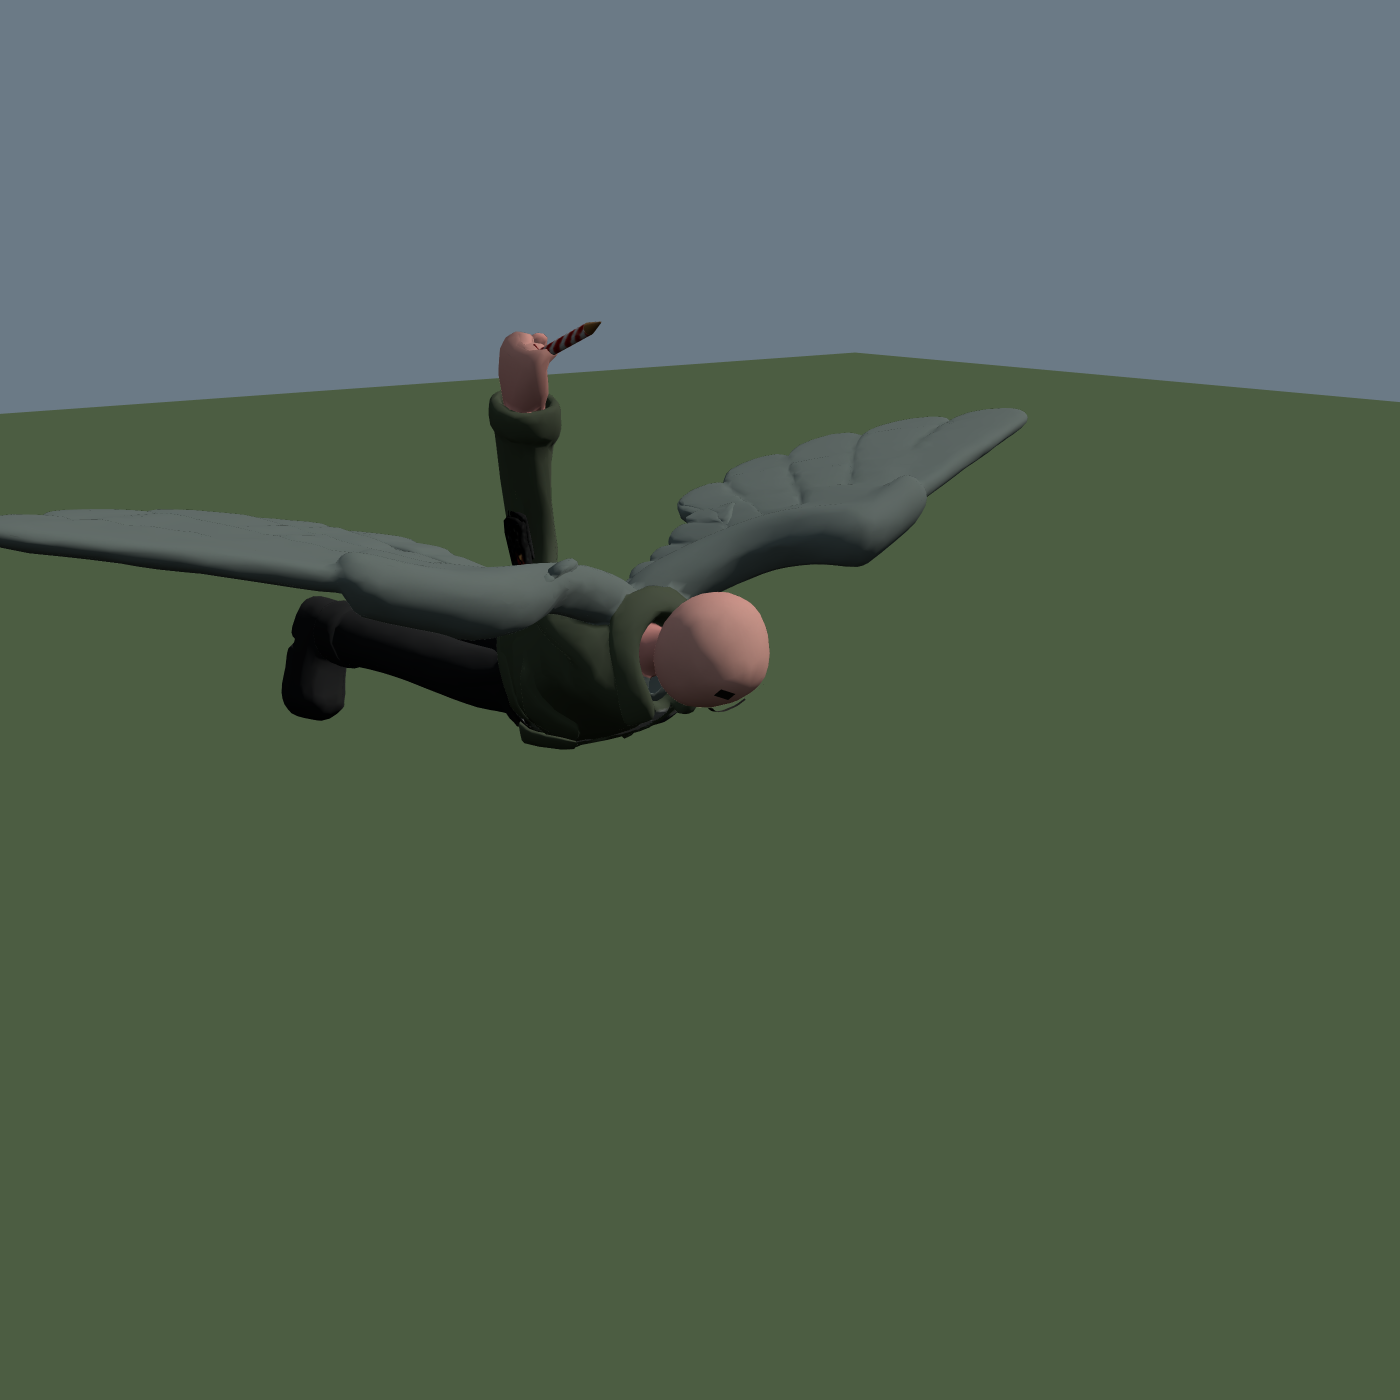
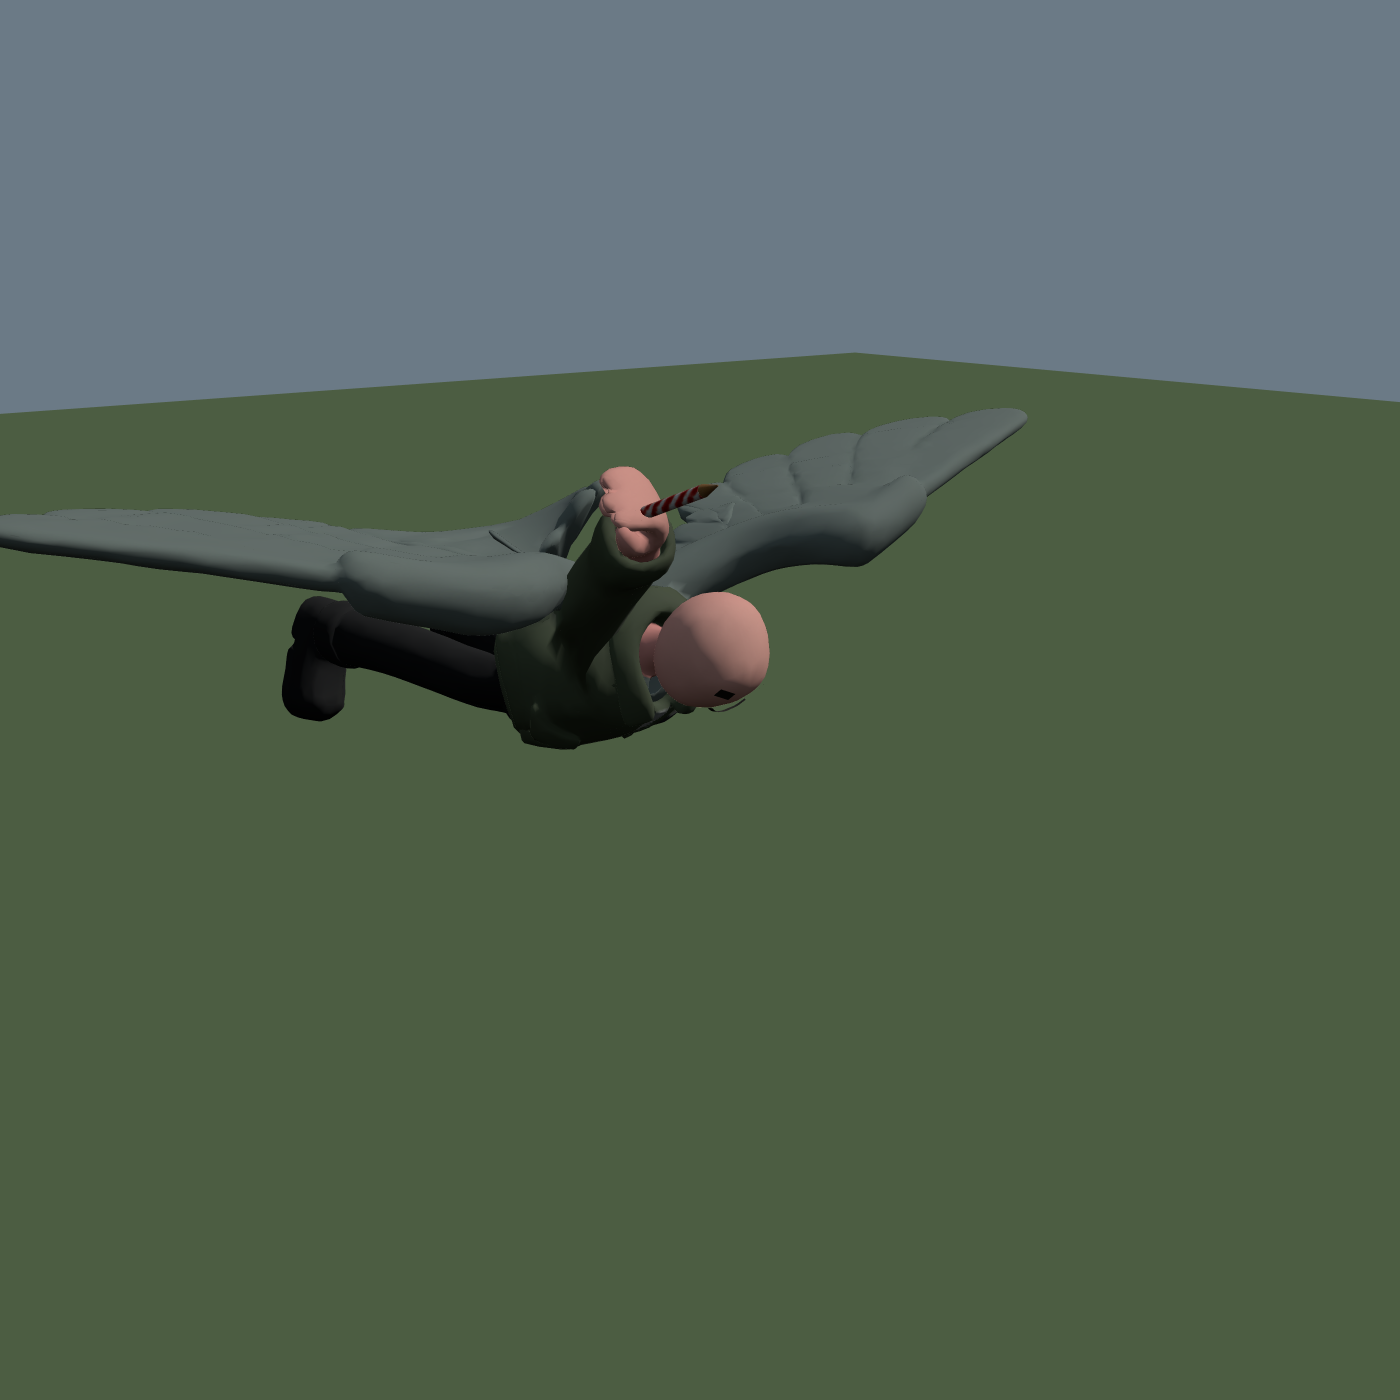
Aim the firework arm along the flight path instead of turning it by an angle
The reach was a rotation of so many radians about the bone's own X, swept
until the hand's *displacement* came out forward. It did — 46 cm of it — and
the arm still ended up straight out from the body like a raised hand, because
the pose it starts from has the arms swept back along the flanks, and turning
them 126 degrees from there lands square to the spine rather than ahead of the
head. Three sign changes went past before it was clear the number was never
the problem: how far a hand moved cannot tell you where it ended up.

So it is a direction now. The rotation is whatever takes this mesh's own
shoulder-to-fist vector onto one written in the body's frame — mostly along
the crown, which in a glide is where the figure is going, a little outboard so
the arm clears its own head, a little skyward so the firework is not held into
the chest. Being a direction it also survives the body being regenerated,
where a fixed turn would land somewhere new.

The check that missed all this now runs with the body in its glide attitude and
reads 57.7 cm along the flight path. It also caught the aim doing nothing at
all on a rig too coarse for handOfTheScan() to measure a fist on: an arm hangs
off its joint, so -Y is the fallback and the reach still happens.

Claude-Session: https://claude.ai/code/session_01AbPj1ecgWZX5NRERgq23EA

Changed region(s): [[0.2764, 0.215, 0.5221, 0.4914]]

diff --git a/src/player/avatar.js b/src/player/avatar.js
@@ -448,32 +448,33 @@ const SKIN_MIDLINE = 0.03;
  */
 const SCAN_CLAVICLE = 0;
 /**
- * How far the firework arm reaches forward while a rocket is burning.
+ * Where the firework arm points while a rocket is burning.
  *
- * Measured in the world while the body is actually gliding, which took three
- * goes to get right and is worth writing down.
+ * A direction, not an angle, and that is the whole of the fix. This was a turn
+ * of so many radians about the bone's own X, swept until the *displacement* of
+ * the hand came out forward — which it did, 46 cm of it — while the arm itself
+ * ended up straight out from the body like a raised hand, because the pose it
+ * starts from has the arms swept back along the flanks and turning them 126
+ * degrees from there lands square to the spine rather than ahead of the head.
+ * Three sign changes went by before it was clear the number was never the
+ * problem: measuring how far a hand moved cannot tell you where it ended up.
  *
- * It was written -1.4 first, reasoned from "a negative turn about X carries an
- * arm hanging along -Y toward the front". Then measured on the rig at rest,
- * where the hand went 28 cm *backwards*, and flipped to +1.4. Both of those
- * asked about the body standing up. In a glide the body is rotated face-down
- * about the eye, so the chest points at the ground and the top of the head
- * points along the flight path — and an arm swung toward the body's own front
- * is then an arm swung at the floor. Which is what it did: +1.4 moved the
- * hand 0.61 down and 0.52 forward.
+ * So the arm is aimed. The rotation is whatever takes the arm's own rest
+ * direction — the shoulder-to-fist vector this mesh actually has, see
+ * handOfTheScan() — onto this one, and the direction is written in the body's
+ * frame: +Y is the crown, which in a glide is where the figure is going, +X is
+ * its right, and +Z is its back, which in a glide is up. Mostly along the
+ * flight path, a little outboard so the arm clears its own head, and a little
+ * skyward so the firework is not held into the chest.
  *
- * So it is swept in world space, in the pose it is actually used in. Both
- * signs reach forward eventually and they differ in where the hand ends up:
- * positive puts it forward and below the body, negative forward and above it.
- * At -2.2 the hand goes 0.99 forward and 0.50 up in level flight and 0.87
- * forward, 0.30 up in a dive — out ahead of the head, which is where a person
- * being pushed by something holds it, and which is the way the built figure
- * has always swept its arm.
+ * Because it is a direction it survives the mesh being regenerated: a new body
+ * with the arm modelled at a different angle aims the same way, where a fixed
+ * turn would land somewhere new.
  */
-const SCAN_ROCKET_REACH = -2.2;
-/** The axis an arm swings forward about, and a scratch to build the turn in. */
-const ACROSS = new THREE.Vector3(1, 0, 0);
+const SCAN_ROCKET_AIM = new THREE.Vector3(0.28, 0.94, 0.20).normalize();
+/** Scratch for building that turn, and for the arm's own rest direction. */
 const _swing = new THREE.Quaternion();
+const _reach = new THREE.Vector3();
 /** Passes of neighbour-averaging over the skin weights. See weighScan(). */
 const SKIN_SMOOTHING = 12;
 
@@ -1850,8 +1851,18 @@ export class Avatar {
     // already has rather than instead of it, and scaled by `open` so it is
     // only ever a flying pose — on the ground the built swing still rules.
     if (this.scanReach > 0.001) {
-      _swing.setFromAxisAngle(ACROSS, SCAN_ROCKET_REACH * this.scanReach * open);
-      bone.armR.quaternion.multiply(_swing);
+      /*
+        From wherever this body's arm actually points to where it should.
+
+        handOfTheScan() measures the shoulder-to-fist vector off the mesh, and
+        on a body too coarse to measure one it returns nothing — which, with
+        the aim guarded on it, made the arm sit still and report zero rather
+        than fail. An arm hangs off its joint, so -Y is the honest fallback and
+        the reach still happens.
+      */
+      _reach.copy(this.scanGrip ?? _swing.set(0, -1, 0, 0)).normalize();
+      _swing.setFromUnitVectors(_reach, SCAN_ROCKET_AIM);
+      bone.armR.quaternion.slerp(_swing, this.scanReach * open);
     }
     bone.legL.quaternion.copy(this.legL.pivot.quaternion);
     bone.legR.quaternion.copy(this.legR.pivot.quaternion);
